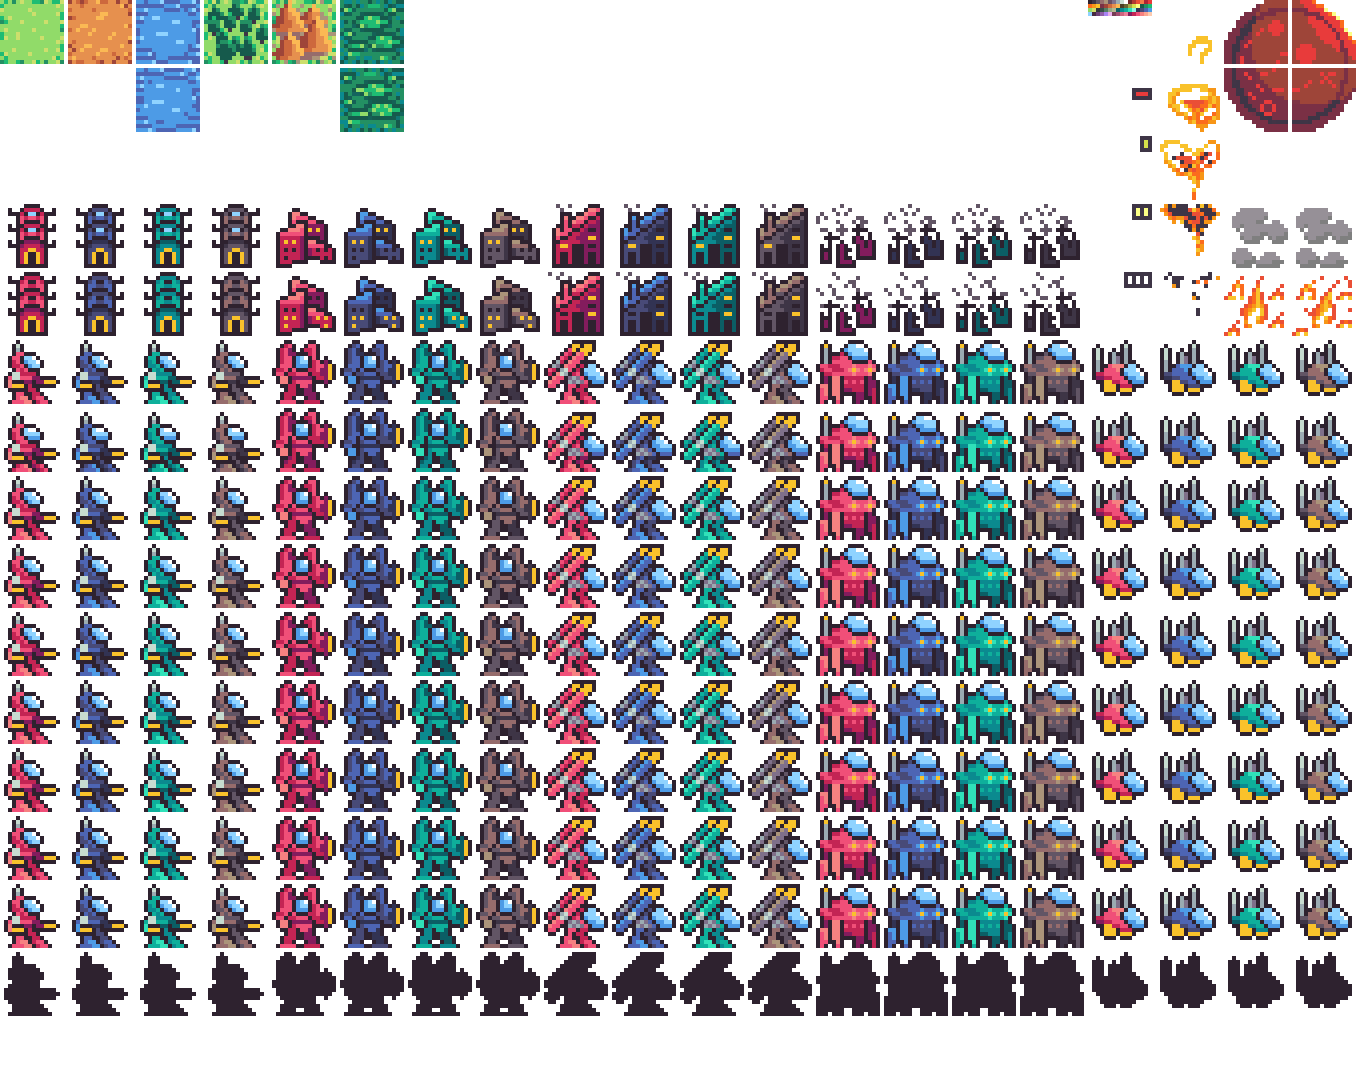
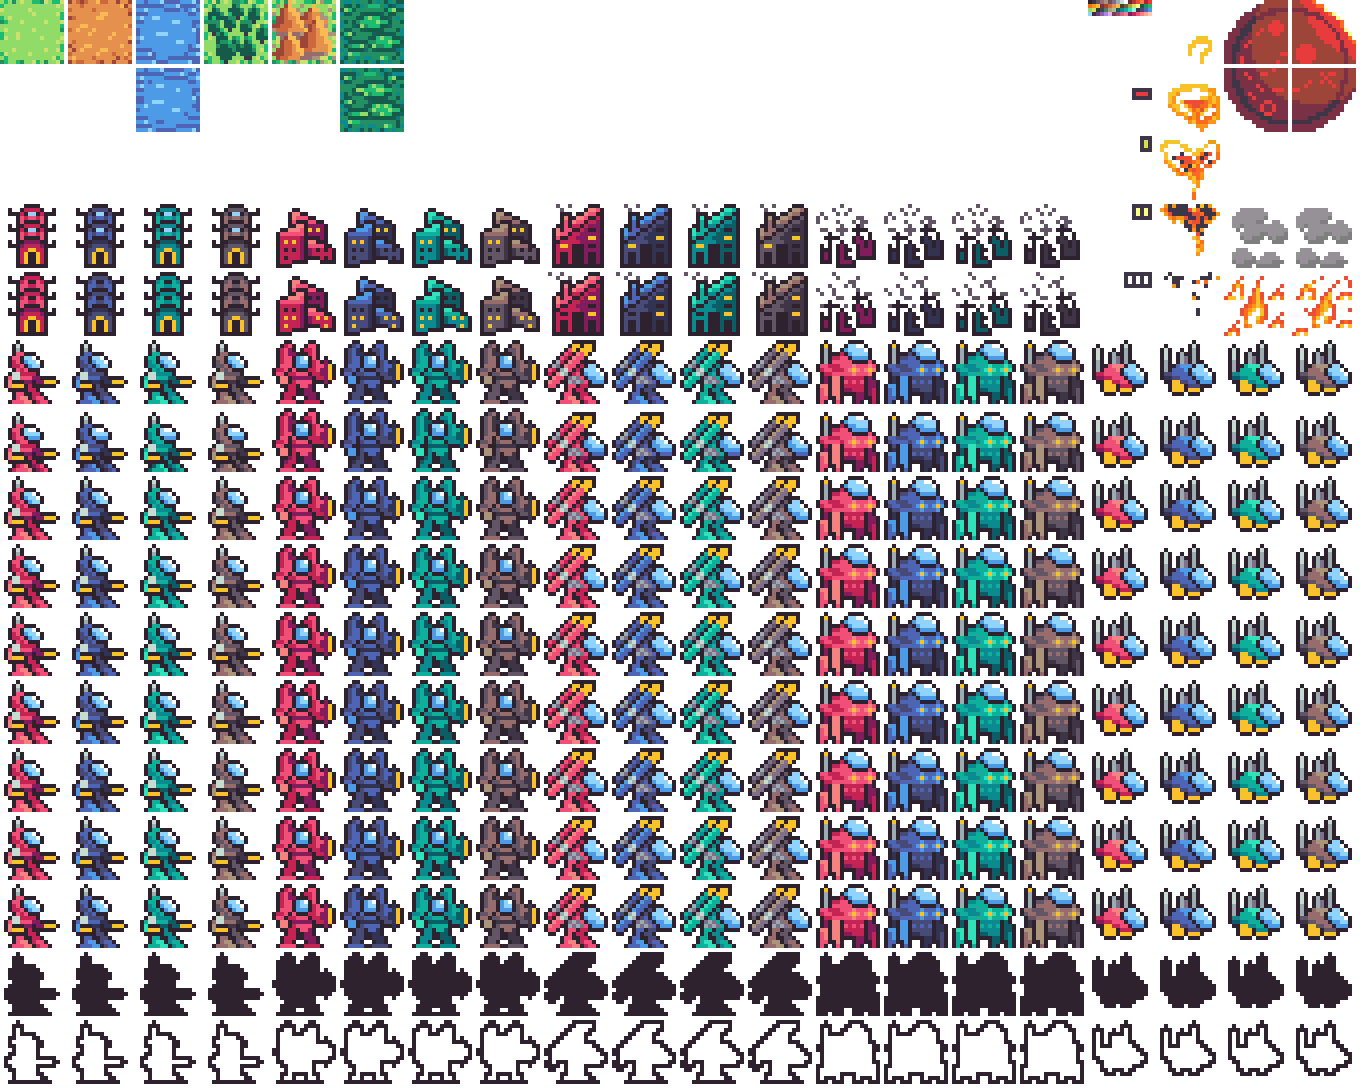
War Building: Added Deploy Delay. Unit Movement Bug Fix: Can't move to bottom right of map.

Changed region(s): [[0.0, 0.9375, 1.0, 1.0]]

diff --git a/js/game/unit.js b/js/game/unit.js
@@ -43,6 +43,7 @@ class Unit {
                 this.movementObstacles = [SEA_TILE];
                 this.movementReducers = [MOUNTAIN_TILE];
                 this.ammo = -1;
+                this.deployTime = 0;
                 break;
 
             case CANNON_MECH:
@@ -50,6 +51,7 @@ class Unit {
                 this.movementObstacles = [SEA_TILE, MOUNTAIN_TILE];
                 this.movementReducers = [FOREST_TILE];
                 this.ammo = -1;
+                this.deployTime = 0;
                 break;
 
             case ARTILLERY_MECH:
@@ -57,6 +59,7 @@ class Unit {
                 this.movementObstacles = [SEA_TILE, MOUNTAIN_TILE];
                 this.movementReducers = [FOREST_TILE];
                 this.ammo = -1;
+                this.deployTime = 0;
                 break;
 
             case SUPPORT_MECH:
@@ -64,6 +67,7 @@ class Unit {
                 this.movementObstacles = [SEA_TILE, MOUNTAIN_TILE];
                 this.movementReducers = [FOREST_TILE];
                 this.ammo = -1;
+                this.deployTime = 0;
                 break;
 
             case TELEPORT_MECH:
@@ -71,6 +75,7 @@ class Unit {
                 this.movementObstacles = [MOUNTAIN_TILE];
                 this.movementReducers = [];
                 this.ammo = -1;
+                this.deployTime = 0;
                 break;
 
             case HQ_BUILDING:
@@ -92,6 +97,11 @@ class Unit {
                 this.isBuilding = true;
                 this.rankUpgradeCost = 20000;
                 this.rankUpgradeCostMultiplier = 1.5;
+                this.mechDeployDelay = [
+                    [1, 4, 4, 2, 2],
+                    [1, 3, 3, 1, 1],
+                    [0, 2, 2, 1, 0],
+                ];
                 break;
 
             case RUIN_BUILDING:
@@ -104,7 +114,14 @@ class Unit {
         if (typeof scale == "undefined") scale = vec2(1, 1);
 
         if (!this.isBuilding) {
-            drawSheet(getMechIndexFromType(this.type, teamID), offset.add(this.position), scale);
+            if(this.deployTime <= 0)
+                drawSheet(getMechIndexFromType(this.type, teamID), offset.add(this.position), scale);
+            else
+            {
+                renderer.globalAlpha = 0.8;
+                drawSheet(getMechIndexFromType(this.type, teamID) + 180, offset.add(this.position), scale);
+                renderer.globalAlpha = 1.0;
+            }
         }
         else if (this.isBuilding) {
             drawSheet(getTeamIndex(this.type, teamID), offset.add(this.position), scale);
@@ -170,20 +187,17 @@ class MapUnit {
             }
         }
         
-        if(this.up == -1 || this.down == -1 || this.right == -1 || this.left == -1)
-        {
+        if(this.up == -1 || this.down == -1 || this.right == -1 || this.left == -1) {
             renderer.globalAlpha = 1.0;
             renderer.globalCompositeOperation = "multiply";
         }
         this.unit.draw(teamID, offset, sc);
-        if(this.up == -1 || this.down == -1 || this.right == -1 || this.left == -1)
-        {
+        if(this.up == -1 || this.down == -1 || this.right == -1 || this.left == -1) {
             renderer.globalAlpha = 1.0;
             renderer.globalCompositeOperation = "source-over";
         }
 
-        if (this.hp > 0 && this.unit.type != RUIN_BUILDING)
-        {
+        if (this.hp > 0 && this.unit.type != RUIN_BUILDING) {
             if (ui.stateIndex != BATTLESCREEN && maxDisplayTilesPerRow == defaultTilesPerRow) {
                 spritesRenderer.font = (24 * pixelSize).toString() + "px OrangeKid";
                 drawText(spritesRenderer, this.hp.toString(), offset.add(this.unit.position.add(vec2(-29.6 * pixelSize, -14.6 * pixelSize))), "black");

diff --git a/js/states/gameplay/buildingPanel.js b/js/states/gameplay/buildingPanel.js
@@ -372,13 +372,29 @@ function buildingPanelEvent() {
             {
                 var pos = buildingPanelPrevSelected.mapPosition;
                 if(manager.getPlayerAndUnitIndexOnTile(pos.add(vec2(0, 1)))[0] == -1)
-                    getPlayer().unitGroup.mapUnits.push(new MapUnit(mechToBuyBtn[i][2], pos.add(vec2(0, 1))));
+                {
+                    var newMapUnit = new MapUnit(mechToBuyBtn[i][2], pos.add(vec2(0, 1)));
+                    newMapUnit.unit.deployTime = getPlayer().getSelectedMapUnit().unit.mechDeployDelay[getPlayer().getSelectedMapUnit().unit.rank][mechToBuyBtn[i][2]];
+                    getPlayer().unitGroup.mapUnits.push(newMapUnit);
+                }
                 else if(manager.getPlayerAndUnitIndexOnTile(pos.add(vec2(1, 0)))[0] == -1)
-                    getPlayer().unitGroup.mapUnits.push(new MapUnit(mechToBuyBtn[i][2], pos.add(vec2(1, 0))));
+                {
+                    var newMapUnit = new MapUnit(mechToBuyBtn[i][2], pos.add(vec2(1, 0)));
+                    newMapUnit.unit.deployTime = getPlayer().getSelectedMapUnit().unit.mechDeployDelay[getPlayer().getSelectedMapUnit().unit.rank][mechToBuyBtn[i][2]];
+                    getPlayer().unitGroup.mapUnits.push(newMapUnit);
+                }
                 else if(manager.getPlayerAndUnitIndexOnTile(pos.add(vec2(0, -1)))[0] == -1)
-                    getPlayer().unitGroup.mapUnits.push(new MapUnit(mechToBuyBtn[i][2], pos.add(vec2(0, -1))));
+                {
+                    var newMapUnit = new MapUnit(mechToBuyBtn[i][2], pos.add(vec2(0, -1)));
+                    newMapUnit.unit.deployTime = getPlayer().getSelectedMapUnit().unit.mechDeployDelay[getPlayer().getSelectedMapUnit().unit.rank][mechToBuyBtn[i][2]];
+                    getPlayer().unitGroup.mapUnits.push(newMapUnit);
+                }
                 else if(manager.getPlayerAndUnitIndexOnTile(pos.add(vec2(-1, 0)))[0] == -1)
-                    getPlayer().unitGroup.mapUnits.push(new MapUnit(mechToBuyBtn[i][2], pos.add(vec2(-1, 0))));
+                {
+                    var newMapUnit = new MapUnit(mechToBuyBtn[i][2], pos.add(vec2(-1, 0)));
+                    newMapUnit.unit.deployTime = getPlayer().getSelectedMapUnit().unit.mechDeployDelay[getPlayer().getSelectedMapUnit().unit.rank][mechToBuyBtn[i][2]];
+                    getPlayer().unitGroup.mapUnits.push(newMapUnit);
+                }
                 warBuilding_buyBtn.button.resetOutput();
             }
         }

diff --git a/js/states/gameplay/quickStats.js b/js/states/gameplay/quickStats.js
@@ -60,29 +60,28 @@ function setQuickStatsForType(type)
 
 function quickStatsUIUpdate() {
     var plNUnitInd = manager.getPlayerAndUnitIndexOnTile(map.cursorTile);
-    if (plNUnitInd[0] != -1) {
-        var mapUnit = manager.players[plNUnitInd[0]].unitGroup.mapUnits[plNUnitInd[1]];
-        qStatsLabels[0].text = "HOVERED UNIT";
-        setQuickStatsForType(mapUnit.unit.type);
-        qStatsLabels[5].text = "HP: " + mapUnit.hp.toString() + ", Rank: " + mapUnit.unit.rank.toString();
-        if(!mapUnit.unit.isBuilding) qStatsLabels[6].text = "Ammo: " + mapUnit.unit.ammo.toString();
-        else qStatsLabels[6].text = "";
+    var mapUnit = undefined;
 
+    if (plNUnitInd[0] != -1) {
+        mapUnit = manager.players[plNUnitInd[0]].unitGroup.mapUnits[plNUnitInd[1]];
+        qStatsLabels[0].text = "HOVERED";
         qStatsPanel.color = getActiveTeamColor() + "BB";
         prevQuickStatsUnit = manager.players[plNUnitInd[0]].unitGroup.mapUnits[plNUnitInd[1]].unit;
         prevQuickStatsTeamID = manager.players[plNUnitInd[0]].unitGroup.teamID;
     } else {
-        var mapUnit = manager.getActivePlayer().getSelectedMapUnit();
-        qStatsLabels[0].text = "SELECTED UNIT";
-        setQuickStatsForType(mapUnit.unit.type);
-        qStatsLabels[5].text = "HP: " + mapUnit.hp.toString() + ", Rank: " + mapUnit.unit.rank.toString();
-        if(!mapUnit.unit.isBuilding) qStatsLabels[6].text = "Ammo: " + mapUnit.unit.ammo.toString();
-        else qStatsLabels[6].text = "";
-
+        mapUnit = manager.getActivePlayer().getSelectedMapUnit();
+        qStatsLabels[0].text = "SELECTED";
         qStatsPanel.color = getActiveTeamColor() + "DD";
         prevQuickStatsUnit = manager.getActivePlayer().getSelectedMapUnit().unit;
         prevQuickStatsTeamID = manager.getActivePlayer().unitGroup.teamID;
     }
+
+    setQuickStatsForType(mapUnit.unit.type);
+    qStatsLabels[5].text = "HP: " + mapUnit.hp.toString() + ", Rank: " + mapUnit.unit.rank.toString();
+    if(!mapUnit.unit.isBuilding) qStatsLabels[6].text = "Ammo: " + mapUnit.unit.ammo.toString();
+    else qStatsLabels[6].text = "";
+    if(mapUnit.unit.deployTime > 0) qStatsLabels[7].text = mapUnit.unit.deployTime + " Turns to Deploy!";
+    else qStatsLabels[7].text = "";
 
     qStatsPanel.enabled = (maxDisplayTilesPerRow == defaultTilesPerRow);
 }

diff --git a/js/states/gameplay/gameplay.js b/js/states/gameplay/gameplay.js
@@ -78,17 +78,20 @@ function gameplayUpdate(deltaTime) {
 
     if (!getPlayer().getSelectedMapUnit().unit.isBuilding) {
         buildingPanel.enabled = false;
-        // Disabling Unit Action Buttons and Left/Right Unit Buttons START
-        unitUpBtn.enabled = unitLeftBtn.enabled = unitDownBtn.enabled = unitRightBtn.enabled =
-            (cam.distance(getPlayer().getCameraPosition()) < 2.5 * pixelSize);
 
-        if (getPlayer().getSelectedMapUnit().up == 0 || getPlayer().getSelectedMapUnit().left == 0 ||
-            getPlayer().getSelectedMapUnit().down == 0 || getPlayer().getSelectedMapUnit().right == 0) {
-            leftUnitChangeBtn.enabled = rightUnitChangeBtn.enabled =
-                unitUpBtn.enabled = unitLeftBtn.enabled = unitDownBtn.enabled = unitRightBtn.enabled = false;
-        }
-        else if (controlBar[0].enabled) {
-            leftUnitChangeBtn.enabled = rightUnitChangeBtn.enabled = true;
+        if(getPlayer().getSelectedMapUnit().unit.deployTime <= 0) {
+            // Disabling Unit Action Buttons and Left/Right Unit Buttons START
+            unitUpBtn.enabled = unitLeftBtn.enabled = unitDownBtn.enabled = unitRightBtn.enabled =
+                (cam.distance(getPlayer().getCameraPosition()) < 2.5 * pixelSize);
+
+            if (getPlayer().getSelectedMapUnit().up == 0 || getPlayer().getSelectedMapUnit().left == 0 ||
+                getPlayer().getSelectedMapUnit().down == 0 || getPlayer().getSelectedMapUnit().right == 0) {
+                leftUnitChangeBtn.enabled = rightUnitChangeBtn.enabled =
+                    unitUpBtn.enabled = unitLeftBtn.enabled = unitDownBtn.enabled = unitRightBtn.enabled = false;
+            }
+            else if (controlBar[0].enabled) {
+                leftUnitChangeBtn.enabled = rightUnitChangeBtn.enabled = true;
+            }
         }
     }
     else {

diff --git a/js/game/map.js b/js/game/map.js
@@ -240,6 +240,11 @@ class GameMap {
         for(let i = 0; i < mapUnit.unit.movementObstacles.length; i++)
             if(mapUnit.unit.movementObstacles[i] == tileType)
                 return true;
+
+        //Other Player Units are Obstacles
+        var plAndUnitInd = manager.getPlayerAndUnitIndexOnTile(tilePosition);
+        if(plAndUnitInd[0] != -1 && manager.index != plAndUnitInd[0]) return true;
+
         return false;
     }
 
@@ -257,7 +262,7 @@ class GameMap {
         || destinationTile.x < 0
         || destinationTile.y < 0
         || destinationTile.x >= MAP_SIZE.x
-        || destinationTile.x >= MAP_SIZE.y)
+        || destinationTile.y >= MAP_SIZE.y)
             return -1;
 
         var path = [mapUnit.mapPosition];

diff --git a/js/game/playerManager.js b/js/game/playerManager.js
@@ -29,7 +29,13 @@ class PlayerManager {
 
     endTurn() {
         this.getActivePlayer().clearDisabledActions();
+
         this.getActivePlayer().actionPoints += actionPointsPerTurn;
+        this.getActivePlayer().applyToAllMapUnits( (mapUnit) => {
+            if(typeof mapUnit.unit.deployTime != "undefined"
+                && mapUnit.unit.deployTime > 0)
+                mapUnit.unit.deployTime--;
+        });
 
         this.index++;
         if (this.index >= this.players.length) this.index = 0;

diff --git a/js/game/player.js b/js/game/player.js
@@ -18,6 +18,11 @@ class Player {
         return this.unitGroup.mapUnits[this.selectedIndex];
     }
 
+    applyToAllMapUnits( toMapUnit ) {
+        for(let i = 0; i < this.unitGroup.mapUnits.length; i++)
+            toMapUnit(this.unitGroup.mapUnits[i]);
+    }
+
     getTotalNumberOfMechs() {
         var no = 0;
         for(let i = 0; i < this.unitGroup.mapUnits.length; i++)
